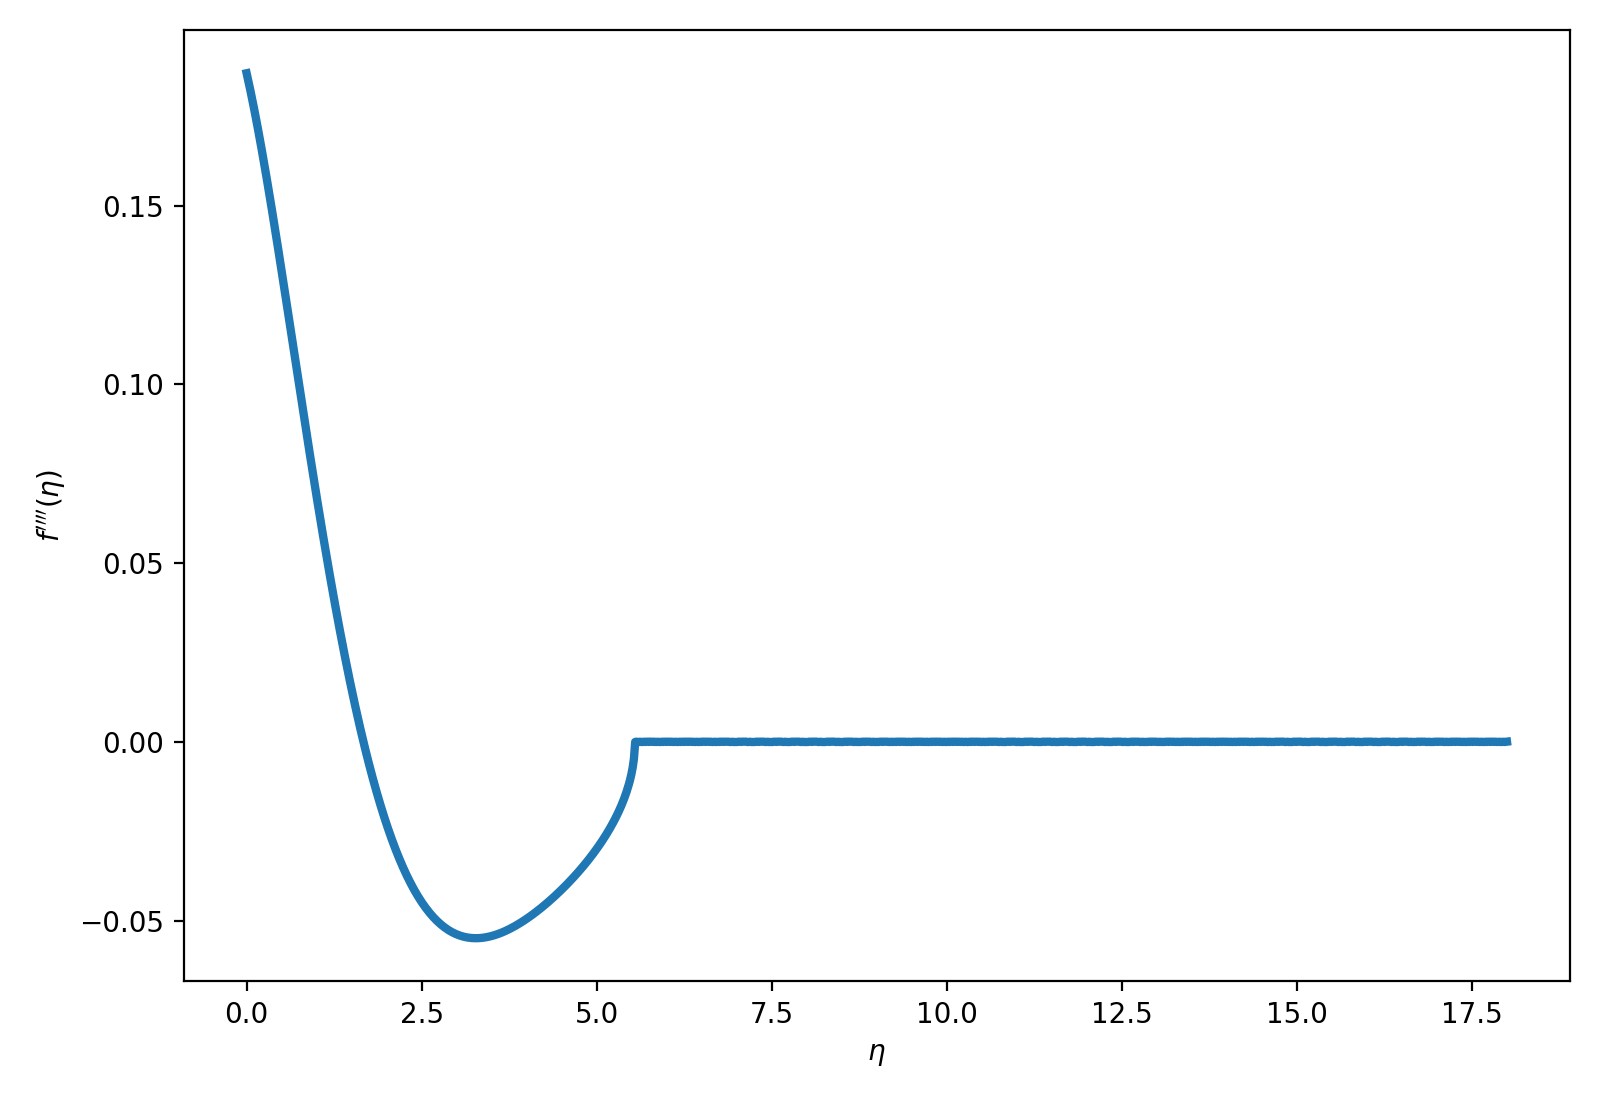
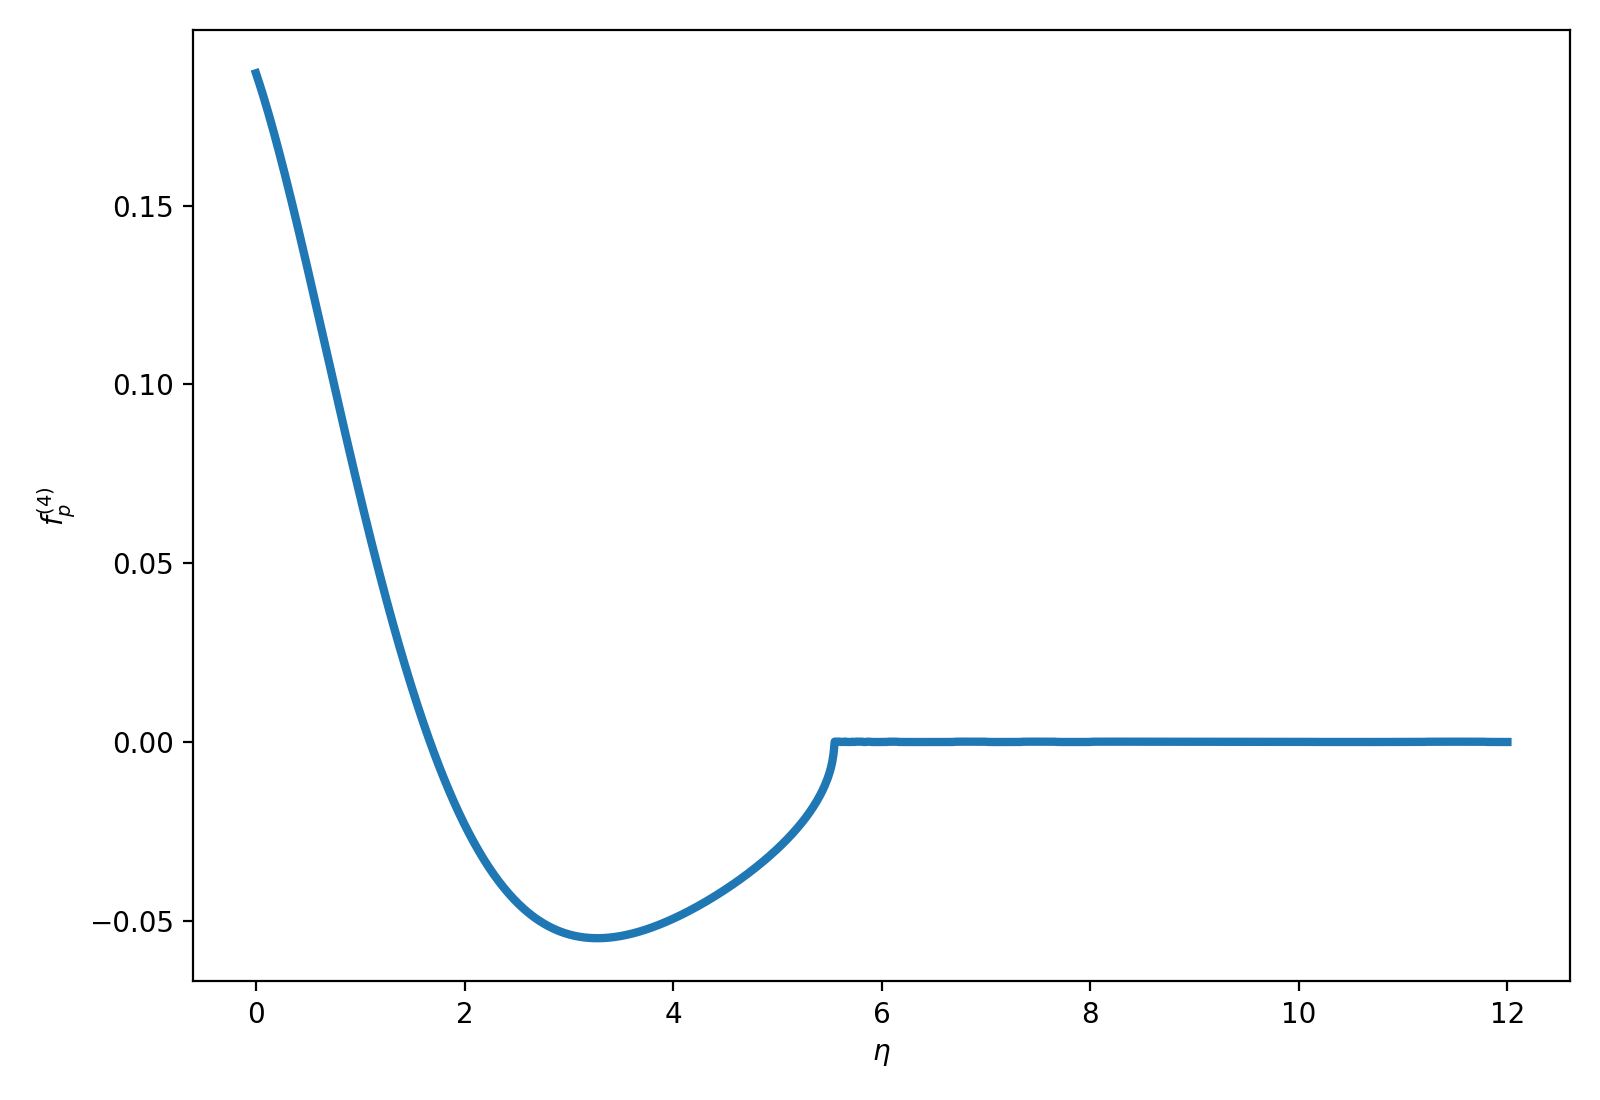
added in some updated carreau sak stuff and also some new computations and stuff

diff --git a/ritdb/summarize_indiv.py b/ritdb/summarize_indiv.py
@@ -1,0 +1,60 @@
+import openpyxl
+from collections import defaultdict
+
+INPUT_FILE = "final_indiv.xlsx"
+OUTPUT_FILE = "fin_indiv_sum.xlsx"
+
+wb_in = openpyxl.load_workbook(INPUT_FILE)
+sheet_names = wb_in.sheetnames  # ['Game1', 'Game2', 'Game3', 'Sheet4']
+
+# counts[game_label][player] = {'15s': int, '10s': int}
+game_data = {}
+
+for i, name in enumerate(sheet_names, start=1):
+    label = f"Game{i}"
+    ws = wb_in[name]
+    counts = defaultdict(lambda: {"15s": 0, "10s": 0})
+    for row in ws.iter_rows(min_row=1, values_only=True):
+        player, pts = row[0], row[1]
+        if player is None:
+            continue
+        if pts == 15:
+            counts[player]["15s"] += 1
+        elif pts == 10:
+            counts[player]["10s"] += 1
+    game_data[label] = counts
+
+
+def make_rows(counts):
+    rows = []
+    for player, c in counts.items():
+        pts = 15 * c["15s"] + 10 * c["10s"]
+        statline = f"{c['15s']}/{c['10s']}"
+        rows.append((player, statline, pts))
+    rows.sort(key=lambda r: -r[2])
+    return rows
+
+
+wb_out = openpyxl.Workbook()
+wb_out.remove(wb_out.active)  # remove default sheet
+
+for label in ["Game1", "Game2", "Game3", "Game4"]:
+    ws = wb_out.create_sheet(label)
+    ws.append(["Player Name", "Statline", "Points"])
+    for row in make_rows(game_data[label]):
+        ws.append(list(row))
+
+# Overall summary: sum 10s and 15s across all games per player
+overall = defaultdict(lambda: {"15s": 0, "10s": 0})
+for label in ["Game1", "Game2", "Game3", "Game4"]:
+    for player, c in game_data[label].items():
+        overall[player]["15s"] += c["15s"]
+        overall[player]["10s"] += c["10s"]
+
+ws_sum = wb_out.create_sheet("Overall")
+ws_sum.append(["Player Name", "Statline", "Points"])
+for row in make_rows(overall):
+    ws_sum.append(list(row))
+
+wb_out.save(OUTPUT_FILE)
+print(f"Saved {OUTPUT_FILE}")

diff --git a/carreau_sak/new_thickening_deriv.py b/carreau_sak/new_thickening_deriv.py
@@ -125,7 +125,7 @@ def compute_f4(alpha: float, f: np.ndarray, fp: np.ndarray, fpp: np.ndarray, fpp
 
 def plot_alpha_03():
     alpha = 0.1
-    L = 4000
+    L = 4000 # YOLO
     s = find_shooting_fpp0(alpha, L)
     sol = integrate_profile(alpha, s, 100, npts=6000, rtol=1e-12, atol=1e-14)
 
@@ -140,7 +140,7 @@ def plot_alpha_03():
     plt.loglog(x[mask], f[mask], lw=3.2, label=r"Numerical Solution") #alpha={alpha}")
     plt.loglog(x[mask], fasym[mask], "--", lw=3.0, label=r"Asymptotic")
     plt.xlabel(r"$\eta$")
-    plt.ylabel(r"$f(\eta)$")
+    plt.ylabel(r"$f_p$")
     # plt.title("New Solutiuon Asymptotic For Shear-Thinning Blasius")
     plt.legend()
     plt.tight_layout()
@@ -152,7 +152,7 @@ def plot_alpha_03():
 
 def plot_alpha_14_f4():
     alpha = 1.4
-    L = 30.0
+    L = 20.0
     s = find_shooting_fpp0(alpha, L)
     # sol = integrate_profile(alpha, s, .5 * L, npts=10000, rtol=.5*1e-7, atol=1e-9)
     sol = integrate_profile(alpha, s, .6 * L, npts=1000, rtol=2.5e-14, atol=1e-16)
@@ -167,7 +167,7 @@ def plot_alpha_14_f4():
     plt.figure(figsize=(8, 5.5))
     plt.plot(x, f4, lw=3, label=r"$f''''(x)$")
     plt.xlabel(r"$\eta$")
-    plt.ylabel(r"$f''''(\eta)$")
+    plt.ylabel(r"$f_p^{(4)}$")
     # plt.title("Singular Solution in Shear-Thickening Case for Power-Law Sakiadis")
     # plt.legend()
     plt.tight_layout()
@@ -178,7 +178,7 @@ def plot_alpha_14_f4():
 
 
 def main():
-    plot_alpha_03()
+    #plot_alpha_03()
     plot_alpha_14_f4()
 
 
